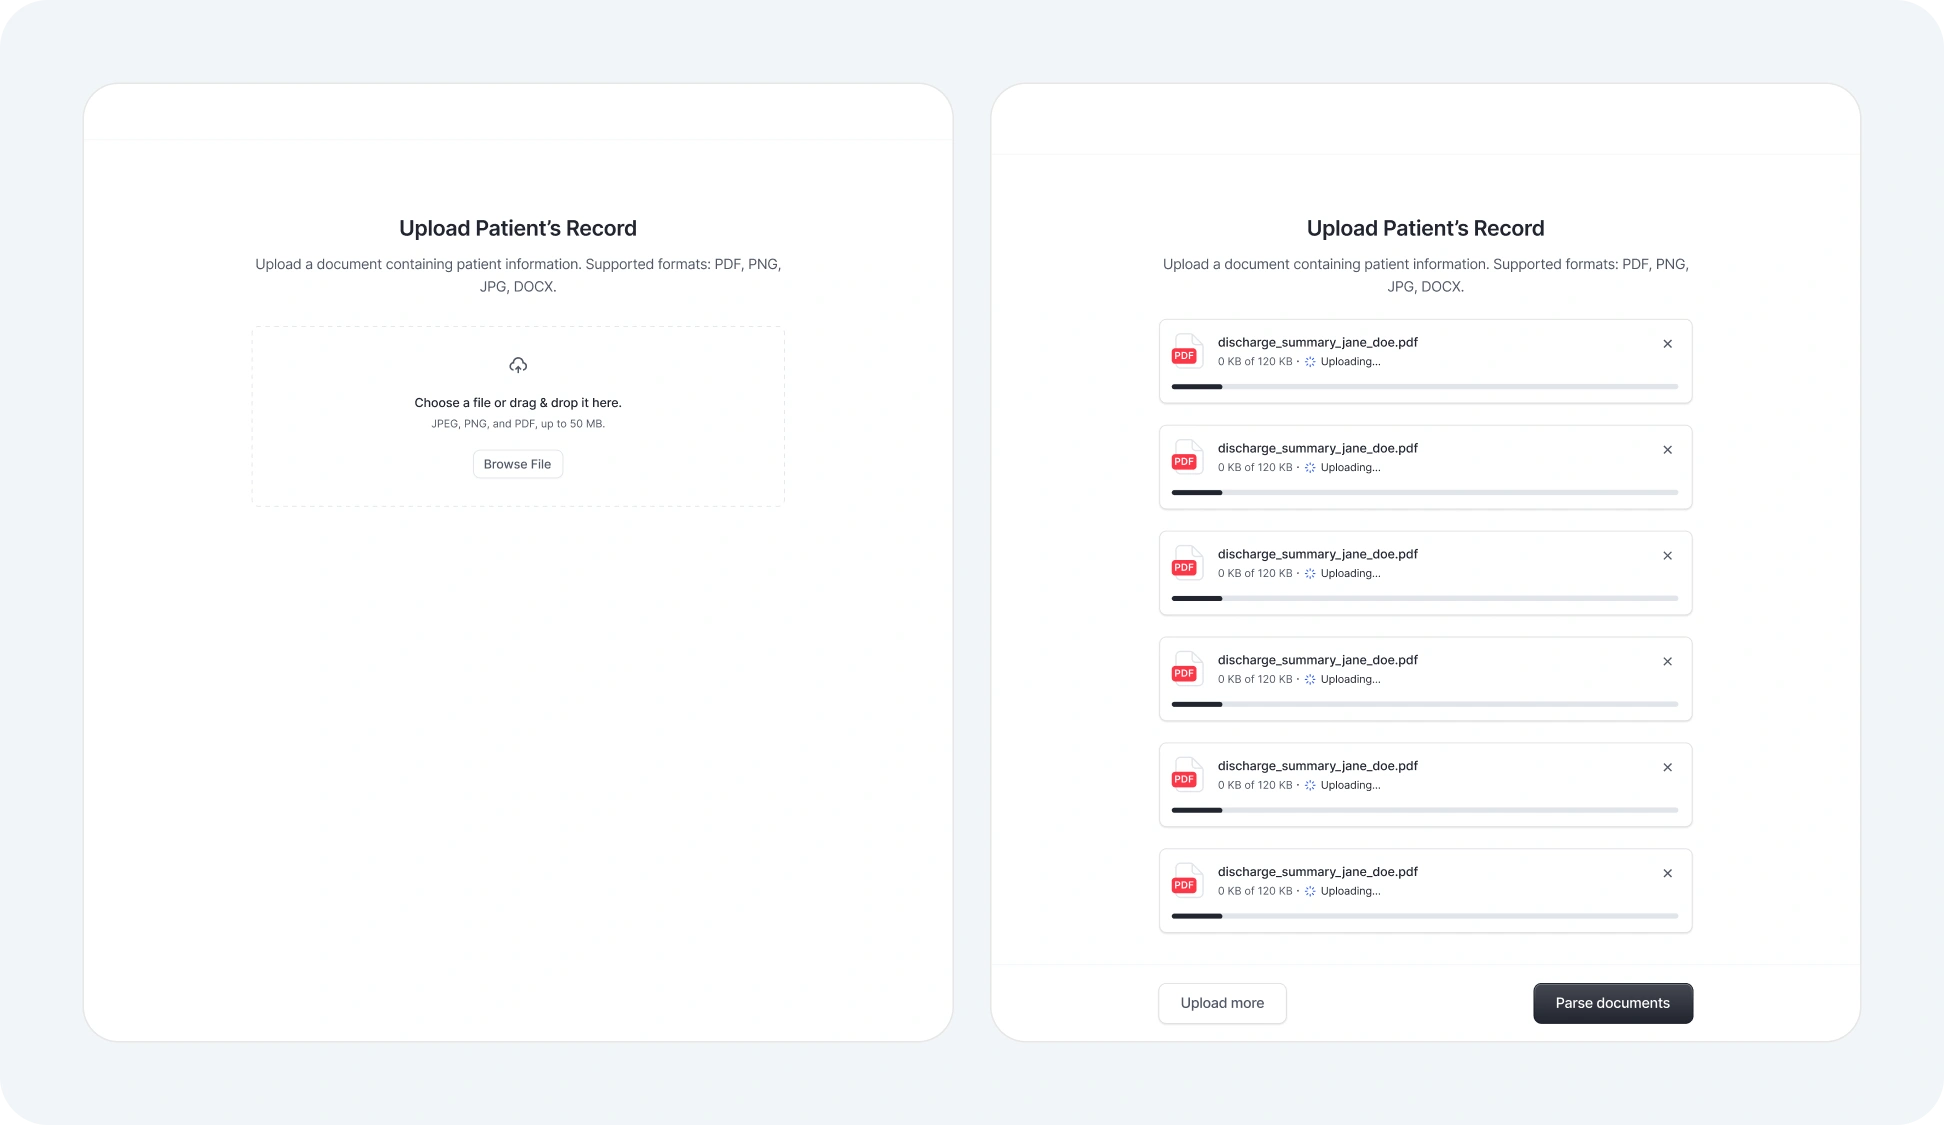
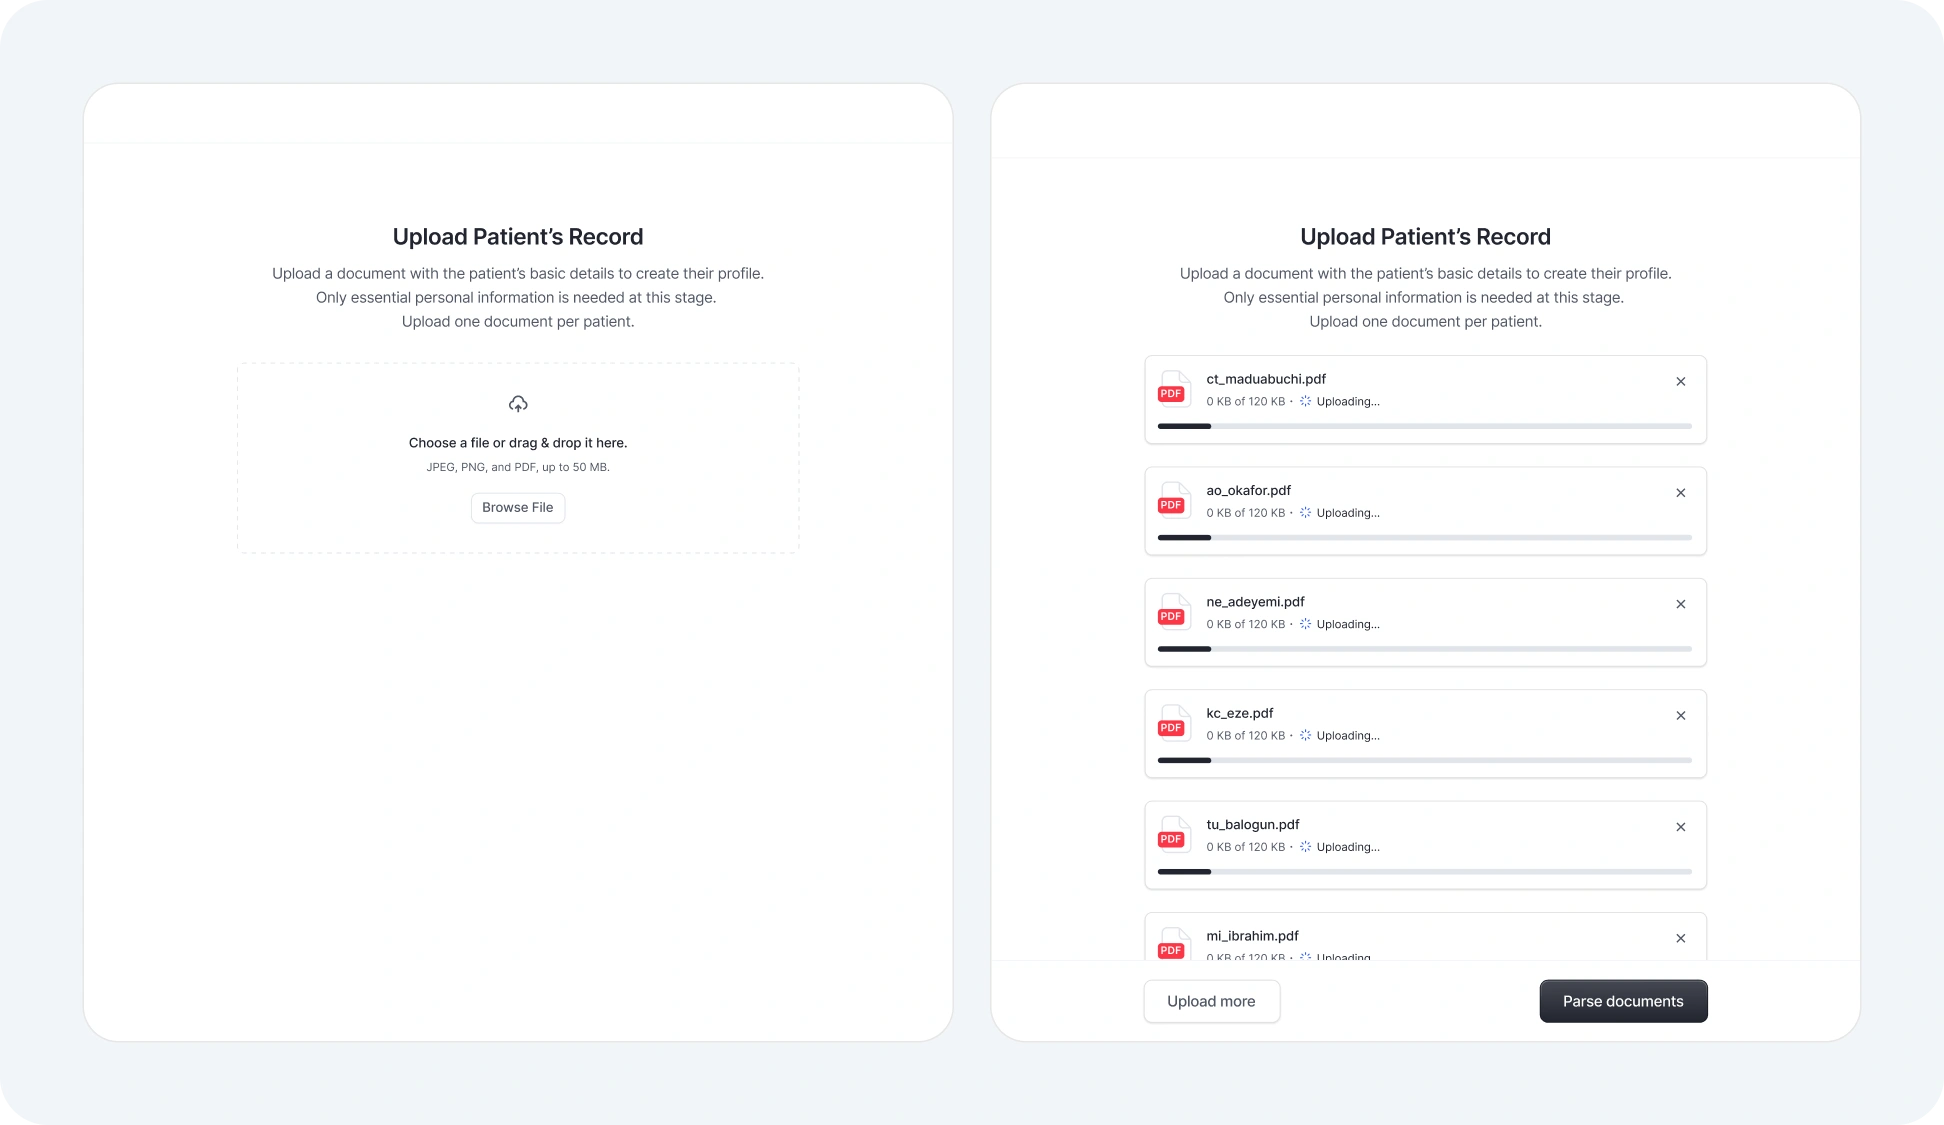
updates

diff --git a/src/pages/Medibridge.tsx b/src/pages/Medibridge.tsx
@@ -123,14 +123,14 @@ export function Medibridge() {
 				/>
 				<LazyImage
 					src={secondImage}
-					alt="Image showing signup screen"
+					alt="Image showing two screens side by side — the left screen displays the 'owner account setup form' and the right screen hospital details form."
 					width={1296}
 					height={750}
 					className="rounded-[1rem] md:rounded-[2rem]"
 				/>
 				<LazyImage
 					src={thirdImage}
-					alt="Image showing two screens side by side — the left screen displays the institution document upload, while the right screen shows the administrator sign-up form."
+					alt="Image showing invite admin form and complete account setup form"
 					width={1296}
 					height={750}
 					className="rounded-[1rem] md:rounded-[2rem]"
@@ -140,27 +140,28 @@ export function Medibridge() {
 			<section className="mt-[3.25rem] md:mt-[6.5rem] flex flex-col gap-6 md:gap-12">
 				<div className="flex flex-col gap-2.5">
 					<h2 className="text-2xl md:text-5xl font-semibold text-gray-700 tracking-[-0.02em] text-balance">
-						Add new patient
+						Add new patients
 					</h2>
 					<p className="w-full max-w-[53.4375rem] font-medium text-sm md:text-base text-gray-500 leading-[1.6] text-pretty">
-						Adding a new patient is simple. Clinicians upload scanned documents or PDFs and the
-						platform extracts the key information needed to create a digital patient profile. The
-						upload supports multiple file types and batches so records can be added in one go.
-						Extracted data is structured automatically, then reviewed by a clinician before it is
-						saved. This keeps data accurate while reducing manual entry and time spent on
-						documentation.
+						Adding a new patient is streamlined for bulk onboarding. Clinicians upload individual
+						documents, each representing a single patient. The system extracts key personal and
+						clinical details from each file to generate separate digital patient profiles. Multiple
+						patient documents can be uploaded at once, allowing several profiles to be created in a
+						single session. Extracted data is structured automatically and presented for clinician
+						review before confirmation. This maintains accuracy while reducing manual entry and the
+						time spent onboarding new patients.
 					</p>
 				</div>
 				<LazyImage
 					src={fourthImage}
-					alt="Image showing an empty dashboard screen, ready to display hospital data once records are added."
+					alt="Image showing an empty dashboard screen."
 					width={1296}
 					height={750}
 					className="rounded-[1rem] md:rounded-[2rem]"
 				/>
 				<LazyImage
 					src={fifthImage}
-					alt="Image showing two screens side by side — the left screen displays the “Choose or drag to upload patient’s record” modal, and the right screen shows the final uploaded state."
+					alt=""
 					width={1296}
 					height={750}
 					className="rounded-[1rem] md:rounded-[2rem]"
@@ -168,7 +169,7 @@ export function Medibridge() {
 
 				<LazyImage
 					src={sixthImage}
-					alt="Image showing two screens side by side — the left screen displays the completed data extraction state, while the right screen shows the extracted content."
+					alt=""
 					width={1296}
 					height={750}
 					className="rounded-[1rem] md:rounded-[2rem]"
@@ -176,7 +177,7 @@ export function Medibridge() {
 
 				<LazyImage
 					src={seventhImage}
-					alt="Image showing a filled dashboard screen with the Dashboard menu active, displaying key hospital metrics and activity."
+					alt=""
 					width={1296}
 					height={750}
 					className="rounded-[1rem] md:rounded-[2rem]"
@@ -223,7 +224,6 @@ export function Medibridge() {
 
 			<section className="mt-[3.25rem] md:mt-[6.5rem] flex flex-col gap-6 md:gap-12">
 				<div className="mt-6 md:mt-12">
-					s{" "}
 					<h2 className="text-2xl md:text-5xl font-semibold text-gray-700 tracking-[-0.02em] text-balance">
 						Overview
 					</h2>
